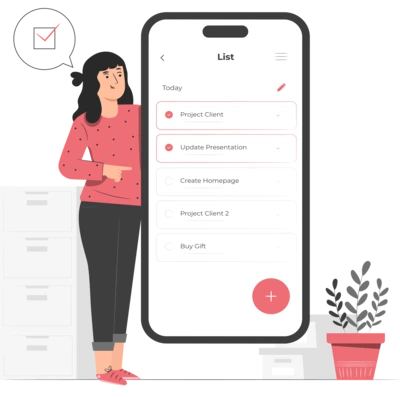
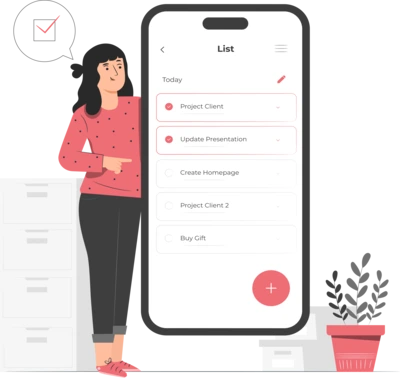
Resize images

diff --git a/vue-frontend/src/components/home-new/PortfolioPageCTASection.vue b/vue-frontend/src/components/home-new/PortfolioPageCTASection.vue
@@ -8,7 +8,7 @@
           :src="CTAImage[0]"
           :srcset="`${CTAImage[0]} 400w, ${CTAImage[1]} 800w, ${CTAImage[2]} 1600w, ${CTAImage[3]} 2400w`"
           alt="portfolio-cta-image"
-          class="-tw-mb-[0.75rem] sm:-tw-mb-[1.5rem] md:-tw-mb-[1.75rem] lg:tw-absolute lg:tw-right-[2.5rem] lg:-tw-top-[6rem] xl:tw-right-[1.5rem] xl:-tw-top-[8rem] 2xl:tw-right-[3.5rem] 2xl:-tw-top-[12rem]"
+          class="-tw-mb-[0.75rem] sm:-tw-mb-[1.5rem] md:-tw-mb-[1.75rem] lg:tw-absolute lg:tw-right-[2.5rem] lg:-tw-top-[5rem] xl:tw-right-[1.5rem] xl:-tw-top-[7.5rem] 2xl:tw-right-[3.5rem] 2xl:-tw-top-[11.5rem]"
           loading="lazy"
         />
       </div>
